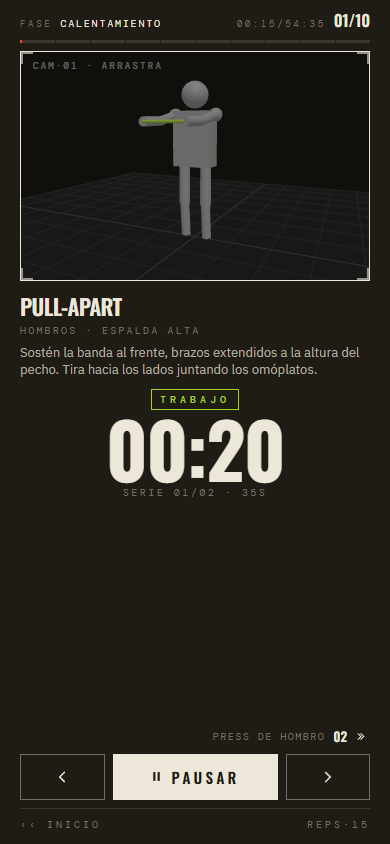
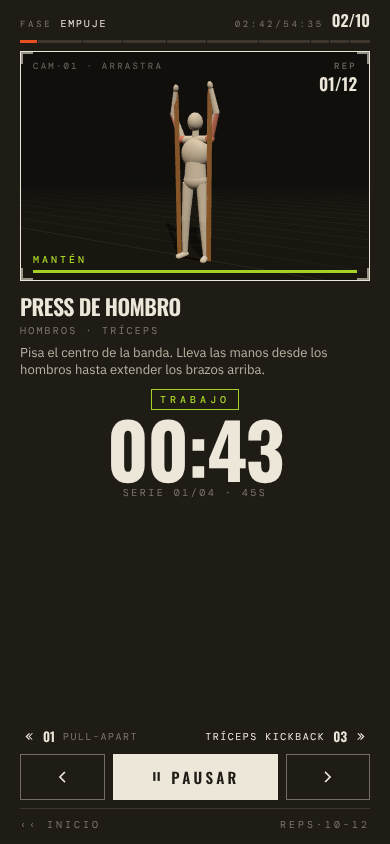
Calidad adaptativa del visor, reloj libre en el Pose Lab y captura del README
- Si el visor no sostiene ~45 fps baja la resolución y luego cambia las
  sombras en tiempo real por una sombra de contacto (protege teléfonos de
  gama baja). El plano que recibe sombras se achica a la zona del muñeco.
- Pose Lab: sin instante fijo el reloj corre solo (antes quedaba atrapado
  sincronizándose con un temporizador inexistente).
- Cámara del press un poco más abierta para que las manos arriba no
  queden al borde; captura del README actualizada con el visor nuevo.

Claude-Session: https://claude.ai/code/session_013kXUd7rcENo1iMPcAdCd9o

diff --git a/src/three/exerciseScene.js b/src/three/exerciseScene.js
@@ -28,21 +28,29 @@ const TAU = Math.PI * 2;
 const X_AXIS = new THREE.Vector3(1, 0, 0);
 const Y_AXIS = new THREE.Vector3(0, 1, 0);
 
-function makeFloorGlow() {
+function makeRadialTexture(rgb, stops) {
   const size = 256;
   const canvas = document.createElement('canvas');
   canvas.width = canvas.height = size;
   const g = canvas.getContext('2d');
   const grad = g.createRadialGradient(size / 2, size / 2, 0, size / 2, size / 2, size / 2);
-  grad.addColorStop(0, 'rgba(255,236,205,0.55)');
-  grad.addColorStop(0.45, 'rgba(255,236,205,0.18)');
-  grad.addColorStop(1, 'rgba(255,236,205,0)');
+  for (const [at, alpha] of stops) grad.addColorStop(at, `rgba(${rgb},${alpha})`);
   g.fillStyle = grad;
   g.fillRect(0, 0, size, size);
   const tex = new THREE.CanvasTexture(canvas);
   tex.colorSpace = THREE.SRGBColorSpace;
   return tex;
 }
+
+// Calidad adaptativa: si el visor no sostiene ~45 fps, baja la resolución y
+// luego reemplaza las sombras en tiempo real por una sombra de contacto.
+const QUALITY = [
+  { dpr: 2, shadows: true, mapSize: 1024 },
+  { dpr: 1.5, shadows: true, mapSize: 512 },
+  { dpr: 1.25, shadows: false },
+];
+const MIN_FPS = 45;
+const FPS_WINDOW = 2.5;
 
 function rigJump(a, b, limit) {
   if (a.rootPos.distanceToSquared(b.rootPos) > 0.01) return true;
@@ -61,7 +69,7 @@ export function createExerciseScene(container, { onFrame } = {}) {
   let height = container.clientHeight || 1;
 
   const renderer = new THREE.WebGLRenderer({ antialias: true, alpha: true });
-  renderer.setPixelRatio(Math.min(window.devicePixelRatio, 2));
+  renderer.setPixelRatio(Math.min(window.devicePixelRatio, QUALITY[0].dpr));
   renderer.setSize(width, height);
   renderer.shadowMap.enabled = true;
   renderer.shadowMap.type = THREE.PCFSoftShadowMap;
@@ -101,7 +109,7 @@ export function createExerciseScene(container, { onFrame } = {}) {
   const grid = new THREE.GridHelper(18, 36, 0x302b22, 0x24211a);
   grid.position.y = 0.001;
   scene.add(grid);
-  const glowTex = makeFloorGlow();
+  const glowTex = makeRadialTexture('255,236,205', [[0, 0.55], [0.45, 0.18], [1, 0]]);
   const glowMat = new THREE.MeshBasicMaterial({
     map: glowTex, transparent: true, opacity: 0.16, depthWrite: false, blending: THREE.AdditiveBlending,
   });
@@ -110,11 +118,52 @@ export function createExerciseScene(container, { onFrame } = {}) {
   glow.position.y = 0.0015;
   scene.add(glow);
   const shadowMat = new THREE.ShadowMaterial({ opacity: 0.42 });
-  const shadowCatcher = new THREE.Mesh(new THREE.PlaneGeometry(7, 7), shadowMat);
+  const shadowCatcher = new THREE.Mesh(new THREE.PlaneGeometry(4.6, 4.6), shadowMat);
   shadowCatcher.rotation.x = -Math.PI / 2;
-  shadowCatcher.position.y = 0.002;
+  shadowCatcher.position.set(-0.4, 0.002, -0.5);
   shadowCatcher.receiveShadow = true;
   scene.add(shadowCatcher);
+  // Sombra de contacto barata (solo en calidad baja, sin sombras reales).
+  const blobTex = makeRadialTexture('0,0,0', [[0, 0.6], [0.5, 0.3], [1, 0]]);
+  const blobMat = new THREE.MeshBasicMaterial({ map: blobTex, transparent: true, depthWrite: false });
+  const blob = new THREE.Mesh(new THREE.PlaneGeometry(1, 1), blobMat);
+  blob.rotation.x = -Math.PI / 2;
+  blob.position.y = 0.0025;
+  blob.visible = false;
+  scene.add(blob);
+
+  let quality = 0;
+  let perfFrames = 0;
+  let perfTime = -2; // ignora los primeros segundos (compilación de shaders)
+  function applyQuality(level) {
+    quality = level;
+    const q = QUALITY[level];
+    renderer.setPixelRatio(Math.min(window.devicePixelRatio, q.dpr));
+    renderer.setSize(width, height);
+    key.castShadow = q.shadows;
+    shadowCatcher.visible = q.shadows;
+    blob.visible = !q.shadows;
+    if (q.shadows && key.shadow.mapSize.x !== q.mapSize) {
+      key.shadow.mapSize.set(q.mapSize, q.mapSize);
+      key.shadow.map?.dispose();
+      key.shadow.map = null;
+    }
+  }
+  function monitorPerformance(rawDt) {
+    if (document.hidden || rawDt > 0.5 || quality >= QUALITY.length - 1) {
+      perfFrames = 0;
+      perfTime = Math.min(perfTime, 0);
+      return;
+    }
+    perfTime += rawDt;
+    if (perfTime <= 0) return;
+    perfFrames++;
+    if (perfTime >= FPS_WINDOW) {
+      if (perfFrames / perfTime < MIN_FPS) applyQuality(quality + 1);
+      perfFrames = 0;
+      perfTime = 0;
+    }
+  }
 
   // --- Muñeco, bandas y cámara.
   const bodyMat = new THREE.MeshStandardMaterial({ color: BODY_COLOR, roughness: 0.58, metalness: 0.02 });
@@ -172,6 +221,11 @@ export function createExerciseScene(container, { onFrame } = {}) {
   function advanceClock(dt, now) {
     if (ctx.fixedTime != null) {
       clock = ctx.fixedTime;
+      return;
+    }
+    if (ctx.freeRun) {
+      // Sin temporizador externo (Pose Lab): el reloj corre solo.
+      if (!paused) clock += dt;
       return;
     }
     if (!paused) clock += dt;
@@ -369,6 +423,14 @@ export function createExerciseScene(container, { onFrame } = {}) {
     }
     applyTint(joints.meshes, tintLevels, baseColor, tintColor);
 
+    if (blob.visible) {
+      // La sombra de contacto sigue a la pelvis y se alarga si está tendido.
+      const lying = rigPosture(workRig) === 'floor';
+      blob.position.x = joints.root.position.x;
+      blob.position.z = joints.root.position.z - (lying ? 0.35 : 0);
+      blob.scale.set(lying ? 0.9 : 0.85, lying ? 2.1 : 0.85, 1);
+    }
+
     // 5. Cámara y render.
     cameraRig.update(dt, now / 1000);
     renderer.render(scene, camera);
@@ -378,8 +440,10 @@ export function createExerciseScene(container, { onFrame } = {}) {
   let raf = 0;
   let last = performance.now();
   function loop(now) {
-    const dt = Math.min(0.05, Math.max(0, (now - last) / 1000));
+    const rawDt = Math.max(0, (now - last) / 1000);
+    const dt = Math.min(0.05, rawDt);
     last = now;
+    monitorPerformance(rawDt);
     frame(dt, now);
     raf = requestAnimationFrame(loop);
   }
@@ -403,8 +467,10 @@ export function createExerciseScene(container, { onFrame } = {}) {
       if (o.geometry) o.geometry.dispose();
     });
     for (const m of joints.allMeshes) if (m.material !== bodyMat) m.material.dispose();
-    [bodyMat, floorMat, glowMat, shadowMat, grid.material].forEach((m) => m.dispose());
+    [bodyMat, floorMat, glowMat, shadowMat, blobMat, grid.material].forEach((m) => m.dispose());
     glowTex.dispose();
+    blobTex.dispose();
+    key.shadow.map?.dispose();
     renderer.dispose();
     if (canvas.parentNode === container) container.removeChild(canvas);
   }

diff --git a/src/components/ExerciseViewer.jsx b/src/components/ExerciseViewer.jsx
@@ -59,12 +59,13 @@ function createHudWriter(refs) {
 //   phaseElapsed — segundos transcurridos en la fase
 //   phaseDuration, workSec, reps — duración de la fase y datos de la serie
 //   paused       — congela la repetición (el muñeco sigue respirando)
-//   fixedTime, pose, camera — solo para el Pose Lab
+//   fixedTime, pose, camera, freeRun — solo para el Pose Lab (freeRun: el
+//                reloj corre solo, sin temporizador externo)
 //   onScene      — recibe la instancia de escena (Pose Lab)
 export function ExerciseViewer({
   exerciseId, nextExerciseId = null, phase = 'demo', phaseKey = 'demo', phaseElapsed = 0,
   phaseDuration = 0, workSec = null, reps = null, paused = false, fixedTime = null, pose = null,
-  camera = null, onScene, showHud = true,
+  camera = null, freeRun = false, onScene, showHud = true,
 }) {
   const hostRef = useRef(null);
   const sceneRef = useRef(null);
@@ -87,9 +88,9 @@ export function ExerciseViewer({
 
   useEffect(() => {
     sceneRef.current?.setContext({
-      exerciseId, nextExerciseId, phase, phaseKey, phaseElapsed, phaseDuration, workSec, reps, fixedTime, pose, camera,
+      exerciseId, nextExerciseId, phase, phaseKey, phaseElapsed, phaseDuration, workSec, reps, fixedTime, pose, camera, freeRun,
     });
-  }, [exerciseId, nextExerciseId, phase, phaseKey, phaseElapsed, phaseDuration, workSec, reps, fixedTime, pose, camera]);
+  }, [exerciseId, nextExerciseId, phase, phaseKey, phaseElapsed, phaseDuration, workSec, reps, fixedTime, pose, camera, freeRun]);
 
   useEffect(() => {
     sceneRef.current?.setPaused(paused);

diff --git a/src/data/exercises.js b/src/data/exercises.js
@@ -44,7 +44,7 @@ export const EXERCISES = {
     keyframes: ['pressDown', 'pressUp', 'pressDown'],
     cues: ['EMPUJA', 'BAJA LENTO'],
     band: { type: 'footToHand_dual', minStretch: 1.08 },
-    camera: { yaw: 0.42, pitch: 0.08, dist: 3.95, target: [0, 1.17, 0] },
+    camera: { yaw: 0.42, pitch: 0.06, dist: 4.3, target: [0, 1.22, 0] },
   },
   tricep: {
     name: 'Tríceps kickback',

diff --git a/src/dev/PoseLab.jsx b/src/dev/PoseLab.jsx
@@ -108,6 +108,7 @@ export function PoseLab() {
       workSec={routine.workSec}
       reps={routine.reps}
       fixedTime={fixed}
+      freeRun={fixed == null}
       pose={mode === 'pose' ? editedPose : null}
       camera={camera}
     />

diff --git a/CLAUDE.md b/CLAUDE.md
@@ -50,7 +50,7 @@ Four layers stacked from data → animation → engine → UI. Adding a new exer
   - `handToHand_overHip` — arc over the pelvis + one segment to each hand
   - `anchored_side` — fixed anchor mesh + segment to mid-hands; requires `anchorPos: [x,y,z]`
 - `cameraRig.js` — hand-rolled orbit camera (no `OrbitControls`): damped glide to each exercise's `camera` view, pointer drag to orbit, wheel/pinch to zoom; the user's offset resets when the exercise changes.
-- `exerciseScene.js` — `createExerciseScene(container, {onFrame})` returns `{setContext, setPaused, dispose}`. Owns renderer, lights, shadows and floor. Per frame: a smooth clock synced to the reducer's elapsed time → director → target pose; an automatic crossfade on any discontinuity (phase or exercise change, user skips), routed through `crouchLow`/`sitFloor` when going between standing and floor postures; secondary motion (breathing, weight shift, head); feet always IK-planted at the anchor pose (hands too with `plantHands`, or along a straight path with `handPath`); band physics; muscle tint from activation; camera.
+- `exerciseScene.js` — `createExerciseScene(container, {onFrame})` returns `{setContext, setPaused, dispose}`. Owns renderer, lights, shadows and floor. Per frame: a smooth clock synced to the reducer's elapsed time → director → target pose; an automatic crossfade on any discontinuity (phase or exercise change, user skips), routed through `crouchLow`/`sitFloor` when going between standing and floor postures; secondary motion (breathing, weight shift, head); feet always IK-planted at the anchor pose (hands too with `plantHands`, or along a straight path with `handPath`); band physics; muscle tint from activation; camera. Adaptive quality: if the viewer can't sustain ~45 fps it lowers the pixel ratio, then swaps real-time shadows for a cheap contact shadow.
 
 ### Viewer (`src/components/ExerciseViewer.jsx`)
 Creates the scene **once** in a `useEffect([])`; props (`exerciseId`, `nextExerciseId`, `phase`, `phaseKey`, `phaseElapsed`, `phaseDuration`, `workSec`, `reps`, `paused`) are forwarded with `setContext`/`setPaused`, so the scene is never rebuilt. The HUD (rep counter, cue, ROM bar, preview label) is written straight to the DOM from the frame callback, without React re-renders.
